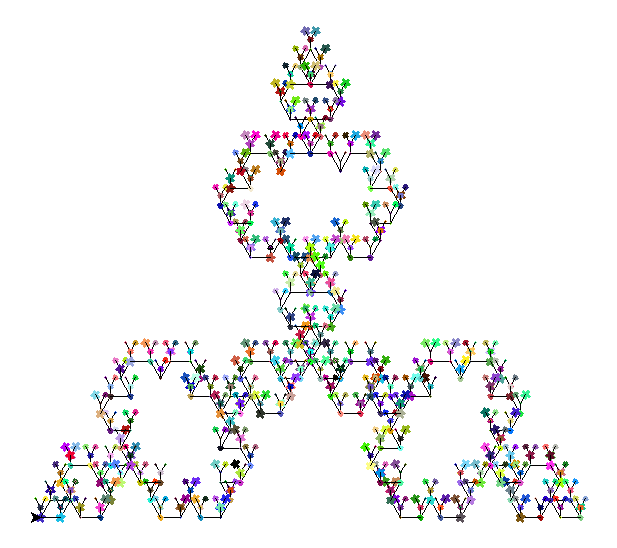
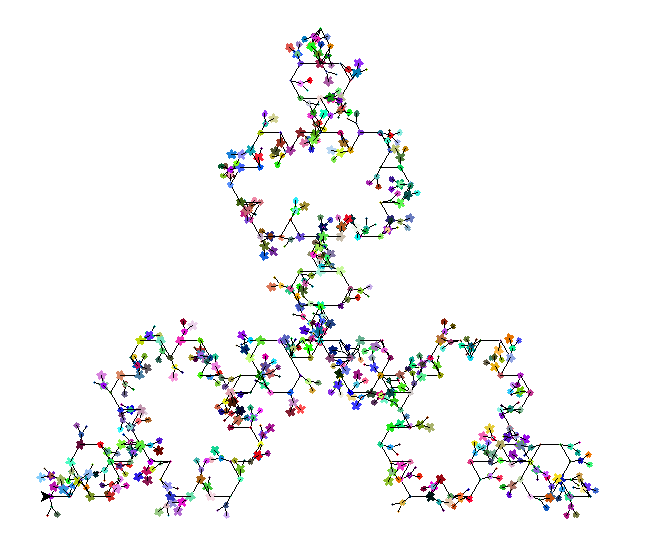
Add files via upload

Changed region(s): [[0.0308, 0.031, 0.9546, 0.9617]]

diff --git a/fractals.html b/fractals.html
@@ -1,0 +1,40 @@
+<!DOCTYPE html>
+<html lang="en">
+    <head>
+        <meta charset="utf-8">
+        <title>Project 01 | Fractals</title>
+        <link href="fractals.css" rel="stylesheet">
+    </head>
+    <body>
+        <div class="section">
+        <h1>Koch Curve</h1>
+	<p>The Koch Curve consists of four Koch curves of the previous depth arranged with every interation of the previous depth forming one side of the Koch curve and a Koch curve depth of 1 being a straigh, horizontal line</p>
+	<img src="http://homer.stuy.edu/~sgao60/koch_original.png">
+	
+	<h2>Koch Curve Modification</h2>
+	<p>The Koch curve accept at the end of every depth 1 curve, the turtle also draws a modification of the tree fractal at a random angle</p>
+	<img src="http://homer.stuy.edu/~sgao60/koch_spicy.png"
+	</div>
+	
+	<div class="section">
+        <h1>Sierpinski Triangle</h1>
+	<p>The Koch Curve consists of four Koch curves of the previous depth arranged with every interation of the previous depth forming one side of the Koch curve and a Koch curve depth of 1 being a straigh, horizontal line</p>
+	<img src="http://homer.stuy.edu/~sgao60/sierpinski_original.png">
+	
+	<h2>Sierpinski Triangle Modification</h2>
+	<p>The Koch curve accept at the end of every depth 1 curve, the turtle also draws a modification of the tree fractal at a random angle</p>
+	<img src="http://homer.stuy.edu/~sgao60/sierpinski_spicy.png"
+	</div>
+
+	<div class="section">
+        <h1>Tree</h1>
+	<p>The Koch Curve consists of four Koch curves of the previous depth arranged with every interation of the previous depth forming one side of the Koch curve and a Koch curve depth of 1 being a straigh, horizontal line</p>
+	<img src="http://homer.stuy.edu/~sgao60/tree_original.png">
+	
+	<h2>Tree Modification</h2>
+	<p>The Koch curve accept at the end of every depth 1 curve, the turtle also draws a modification of the tree fractal at a random angle</p>
+	<img src="http://homer.stuy.edu/~sgao60/tree_spicy.png"
+	</div>
+
+    </body>
+</html>
